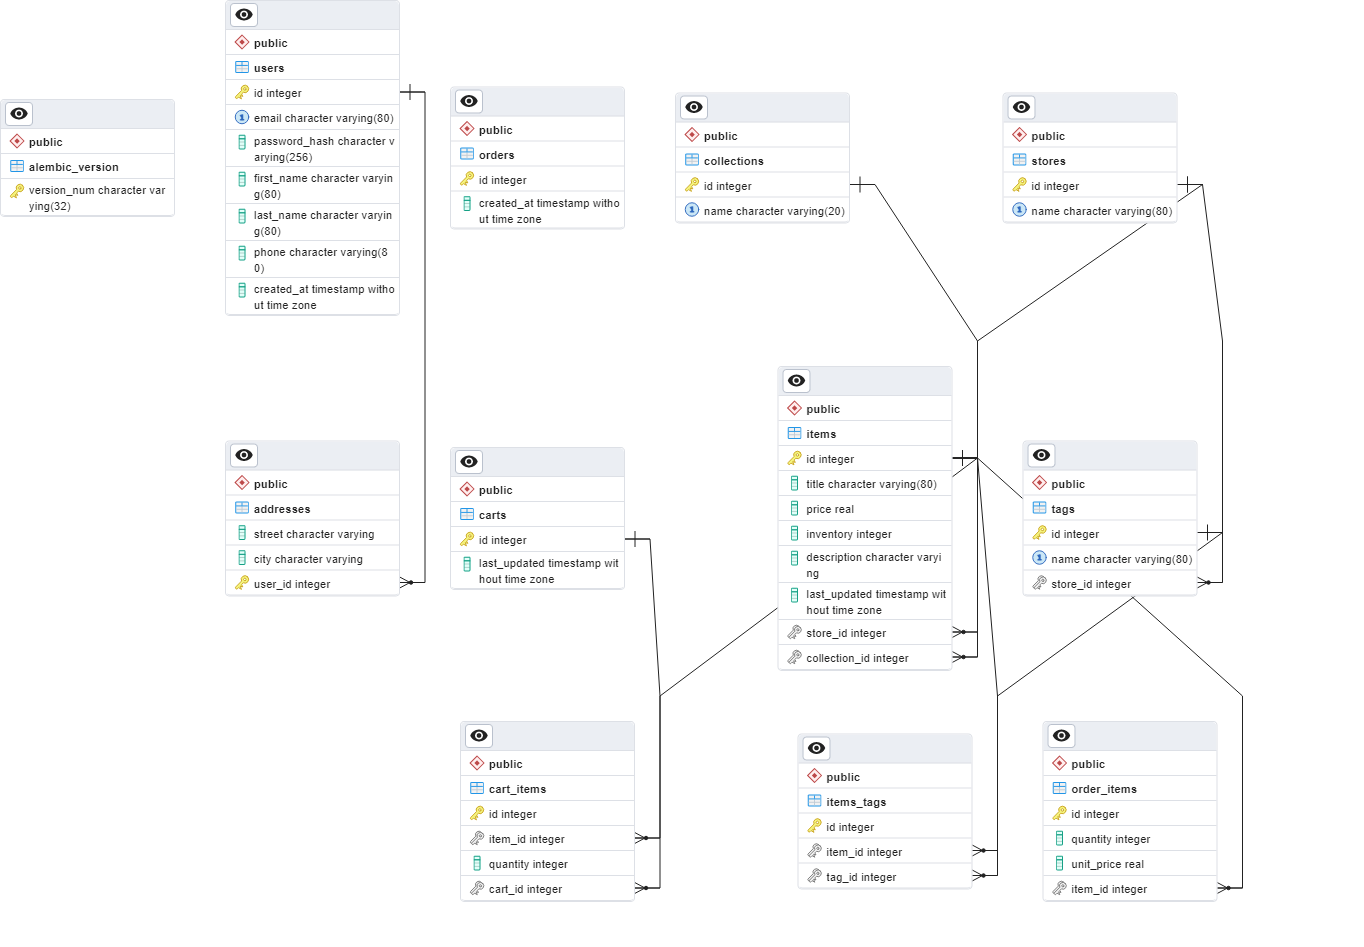
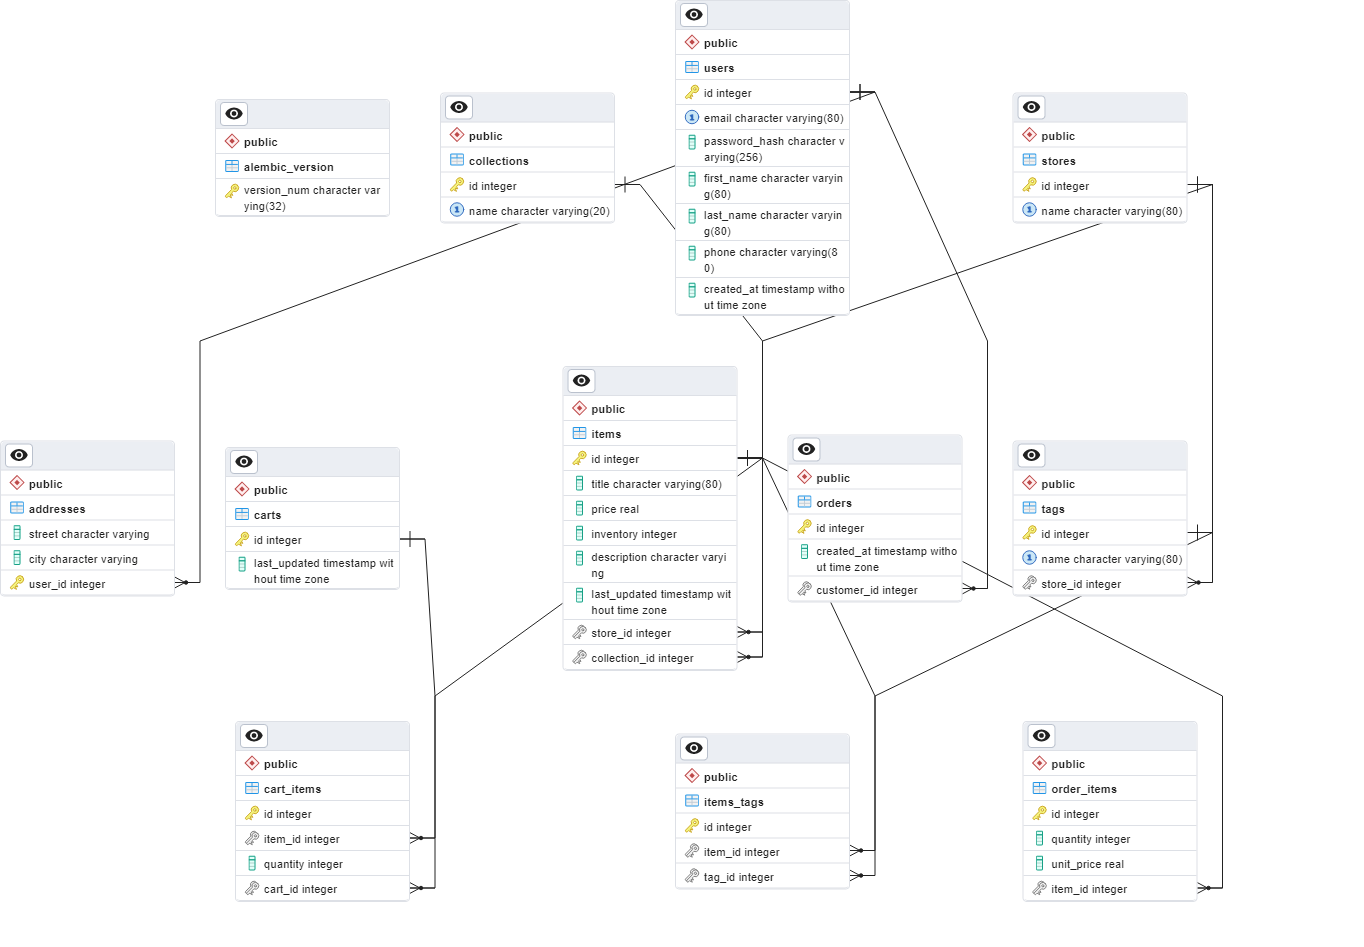
Linked Order Model with User

diff --git a/migrations/versions/3b071dc1f369_.py b/migrations/versions/3b071dc1f369_.py
@@ -1,0 +1,58 @@
+"""empty message
+
+Revision ID: 3b071dc1f369
+Revises: d2746753aaa5
+Create Date: 2022-12-04 03:21:20.119890
+
+"""
+from alembic import op
+import sqlalchemy as sa
+
+
+# revision identifiers, used by Alembic.
+revision = '3b071dc1f369'
+down_revision = 'd2746753aaa5'
+branch_labels = None
+depends_on = None
+
+
+def upgrade():
+    # ### commands auto generated by Alembic - please adjust! ###
+    with op.batch_alter_table('items', schema=None) as batch_op:
+        batch_op.alter_column('price',
+               existing_type=sa.REAL(),
+               type_=sa.Float(precision=2),
+               existing_nullable=False)
+
+    with op.batch_alter_table('order_items', schema=None) as batch_op:
+        batch_op.alter_column('unit_price',
+               existing_type=sa.REAL(),
+               type_=sa.Float(precision=2),
+               existing_nullable=False)
+
+    with op.batch_alter_table('orders', schema=None) as batch_op:
+        batch_op.add_column(sa.Column('customer_id', sa.Integer(), nullable=True))
+        batch_op.create_foreign_key(None, 'users', ['customer_id'], ['id'])
+
+    # ### end Alembic commands ###
+
+
+def downgrade():
+    # ### commands auto generated by Alembic - please adjust! ###
+    with op.batch_alter_table('orders', schema=None) as batch_op:
+        batch_op.drop_constraint(None, type_='foreignkey')
+        batch_op.drop_column('customer_id')
+
+    with op.batch_alter_table('order_items', schema=None) as batch_op:
+        batch_op.alter_column('unit_price',
+               existing_type=sa.Float(precision=2),
+               type_=sa.REAL(),
+               existing_nullable=False)
+
+    with op.batch_alter_table('items', schema=None) as batch_op:
+        batch_op.alter_column('price',
+               existing_type=sa.Float(precision=2),
+               type_=sa.REAL(),
+               existing_nullable=False)
+
+    # ### end Alembic commands ###

diff --git a/models/order.py b/models/order.py
@@ -6,6 +6,8 @@ class OrderModel(db.Model):
 
     id = db.Column(db.Integer , primary_key=True)
     created_at = db.Column(db.DateTime , default=datetime.datetime.utcnow)
+    customer_id = db.Column(db.Integer , db.ForeignKey('users.id'))
+    customer = db.relationship("UserModel" , back_populates = "orders")
 
 class OrderItemModel(db.Model):
     __tablename__ = 'order_items'

diff --git a/models/user.py b/models/user.py
@@ -16,3 +16,4 @@ class UserModel(db.Model):
     addresses = db.relationship(
         "AddressModel", back_populates="user", lazy="dynamic", passive_deletes=True
     )
+    orders = db.relationship("OrderModel" , back_populates="customer" , lazy="dynamic")
